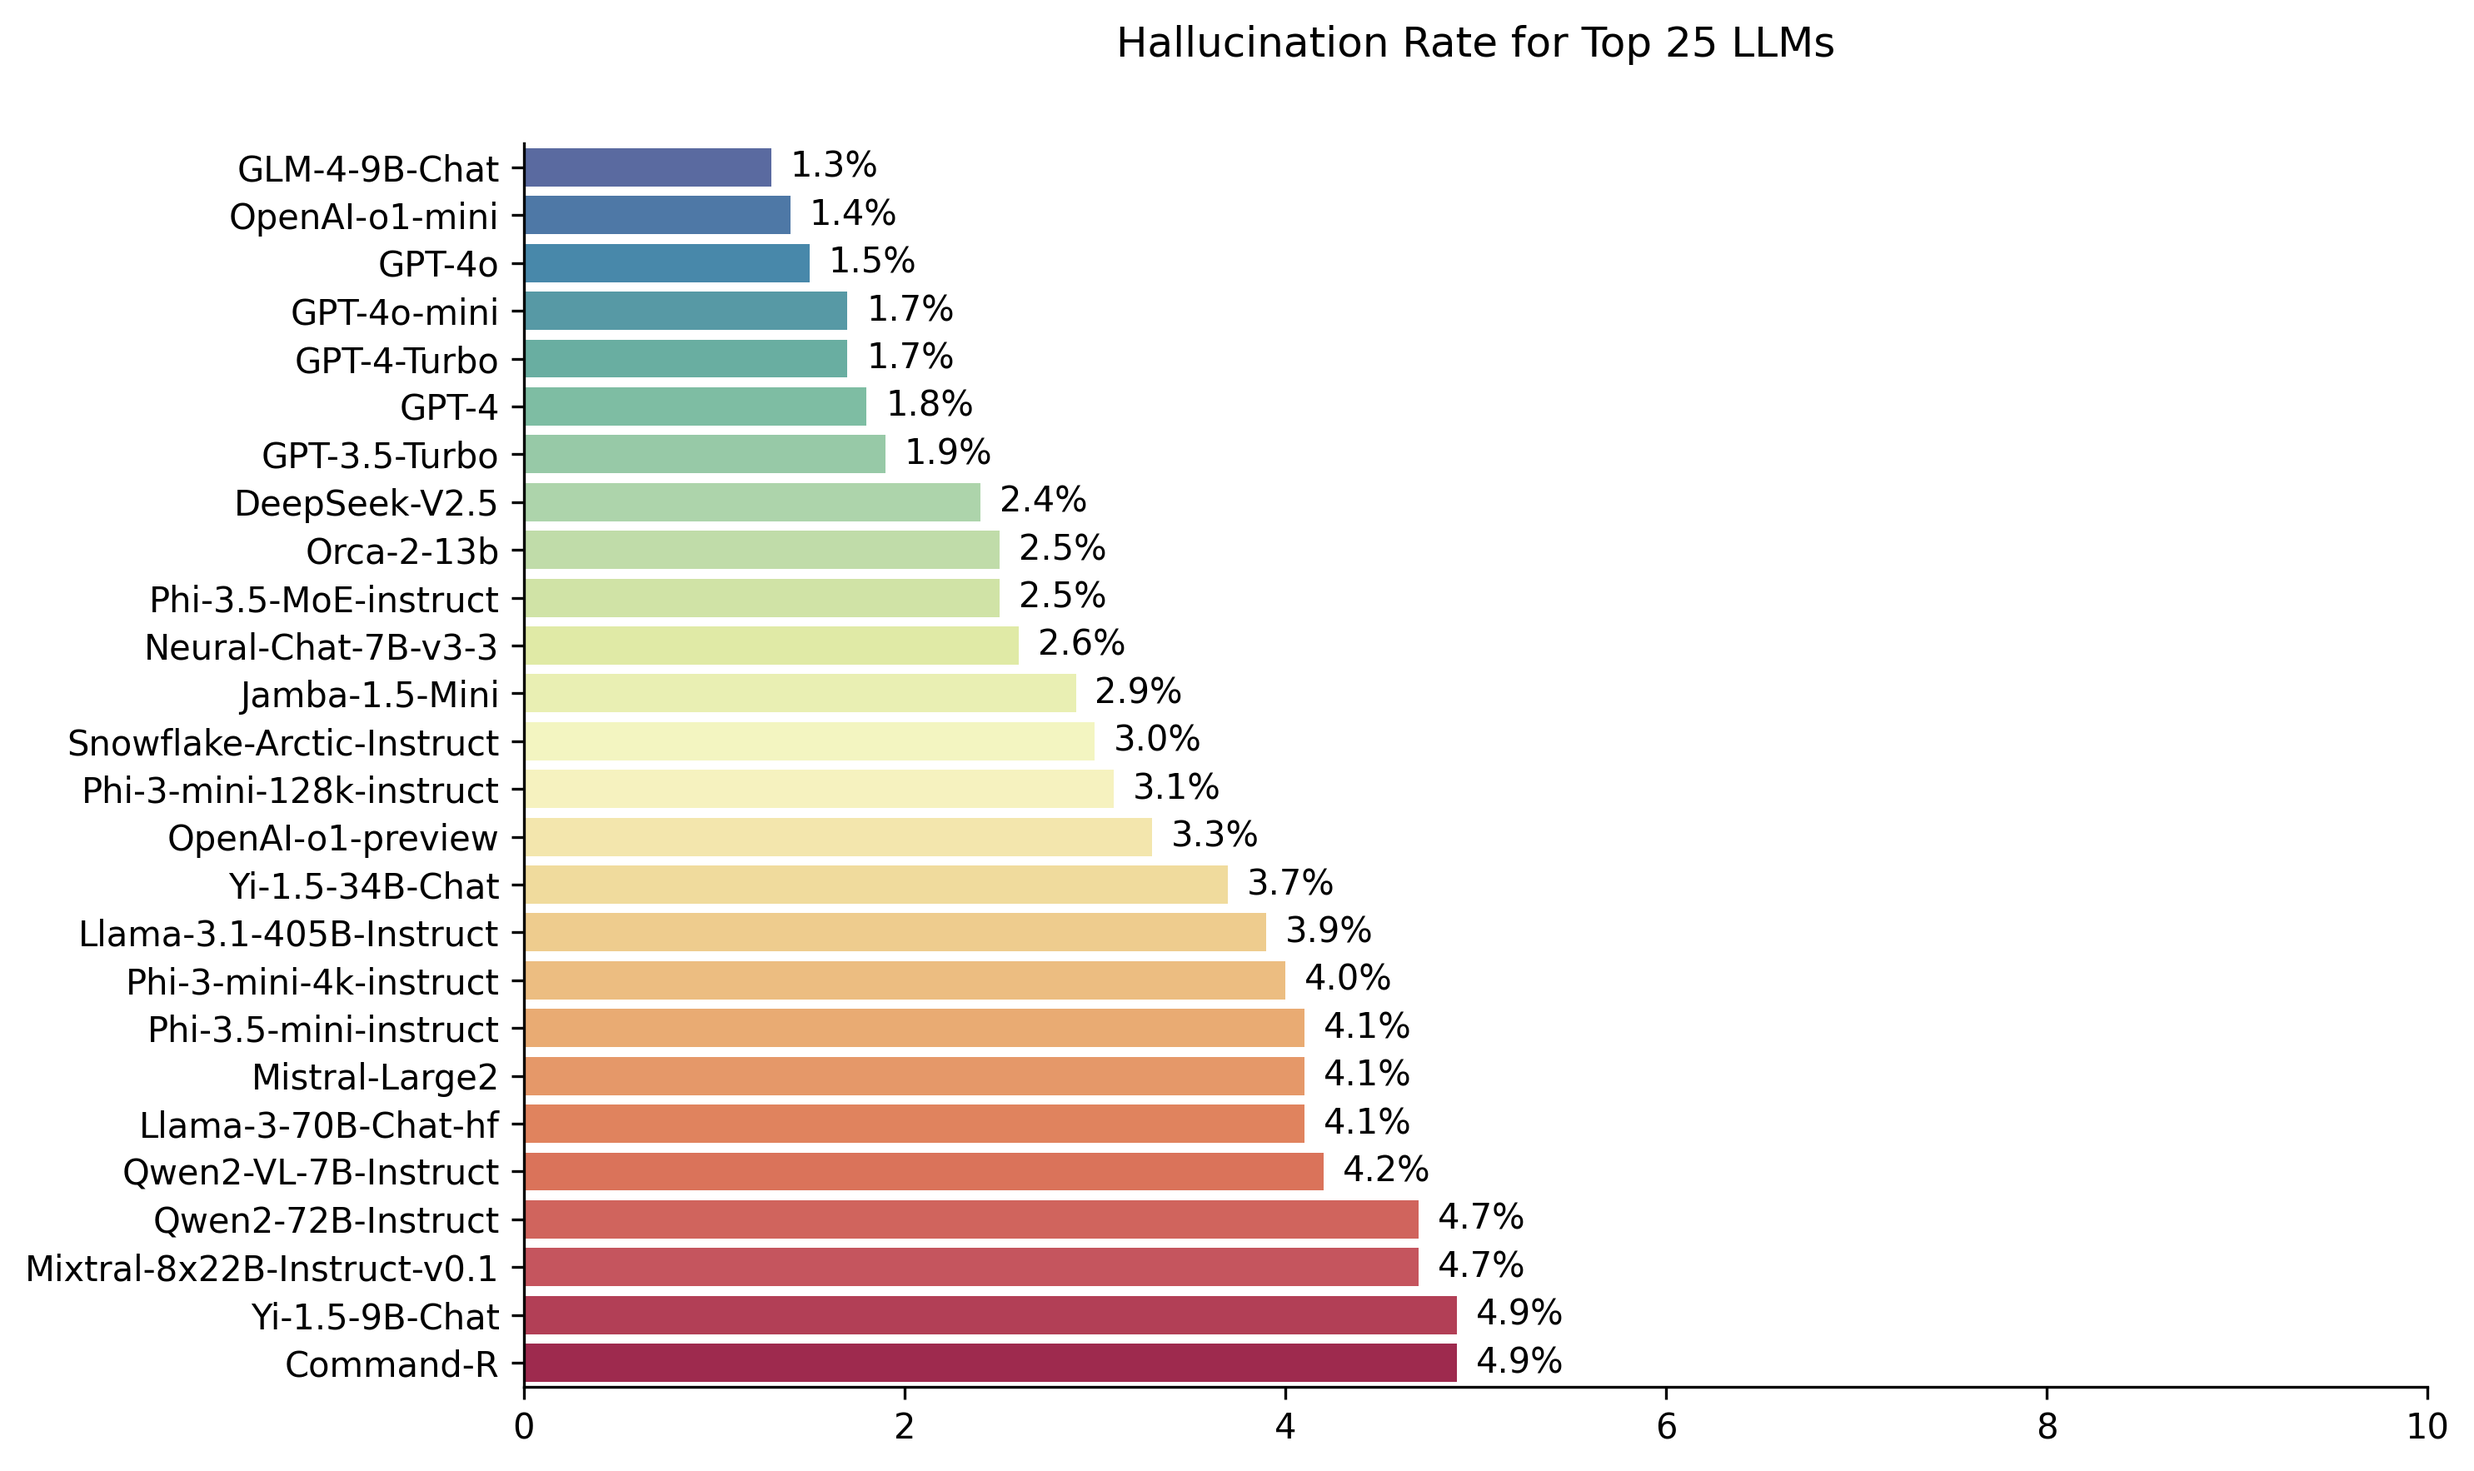
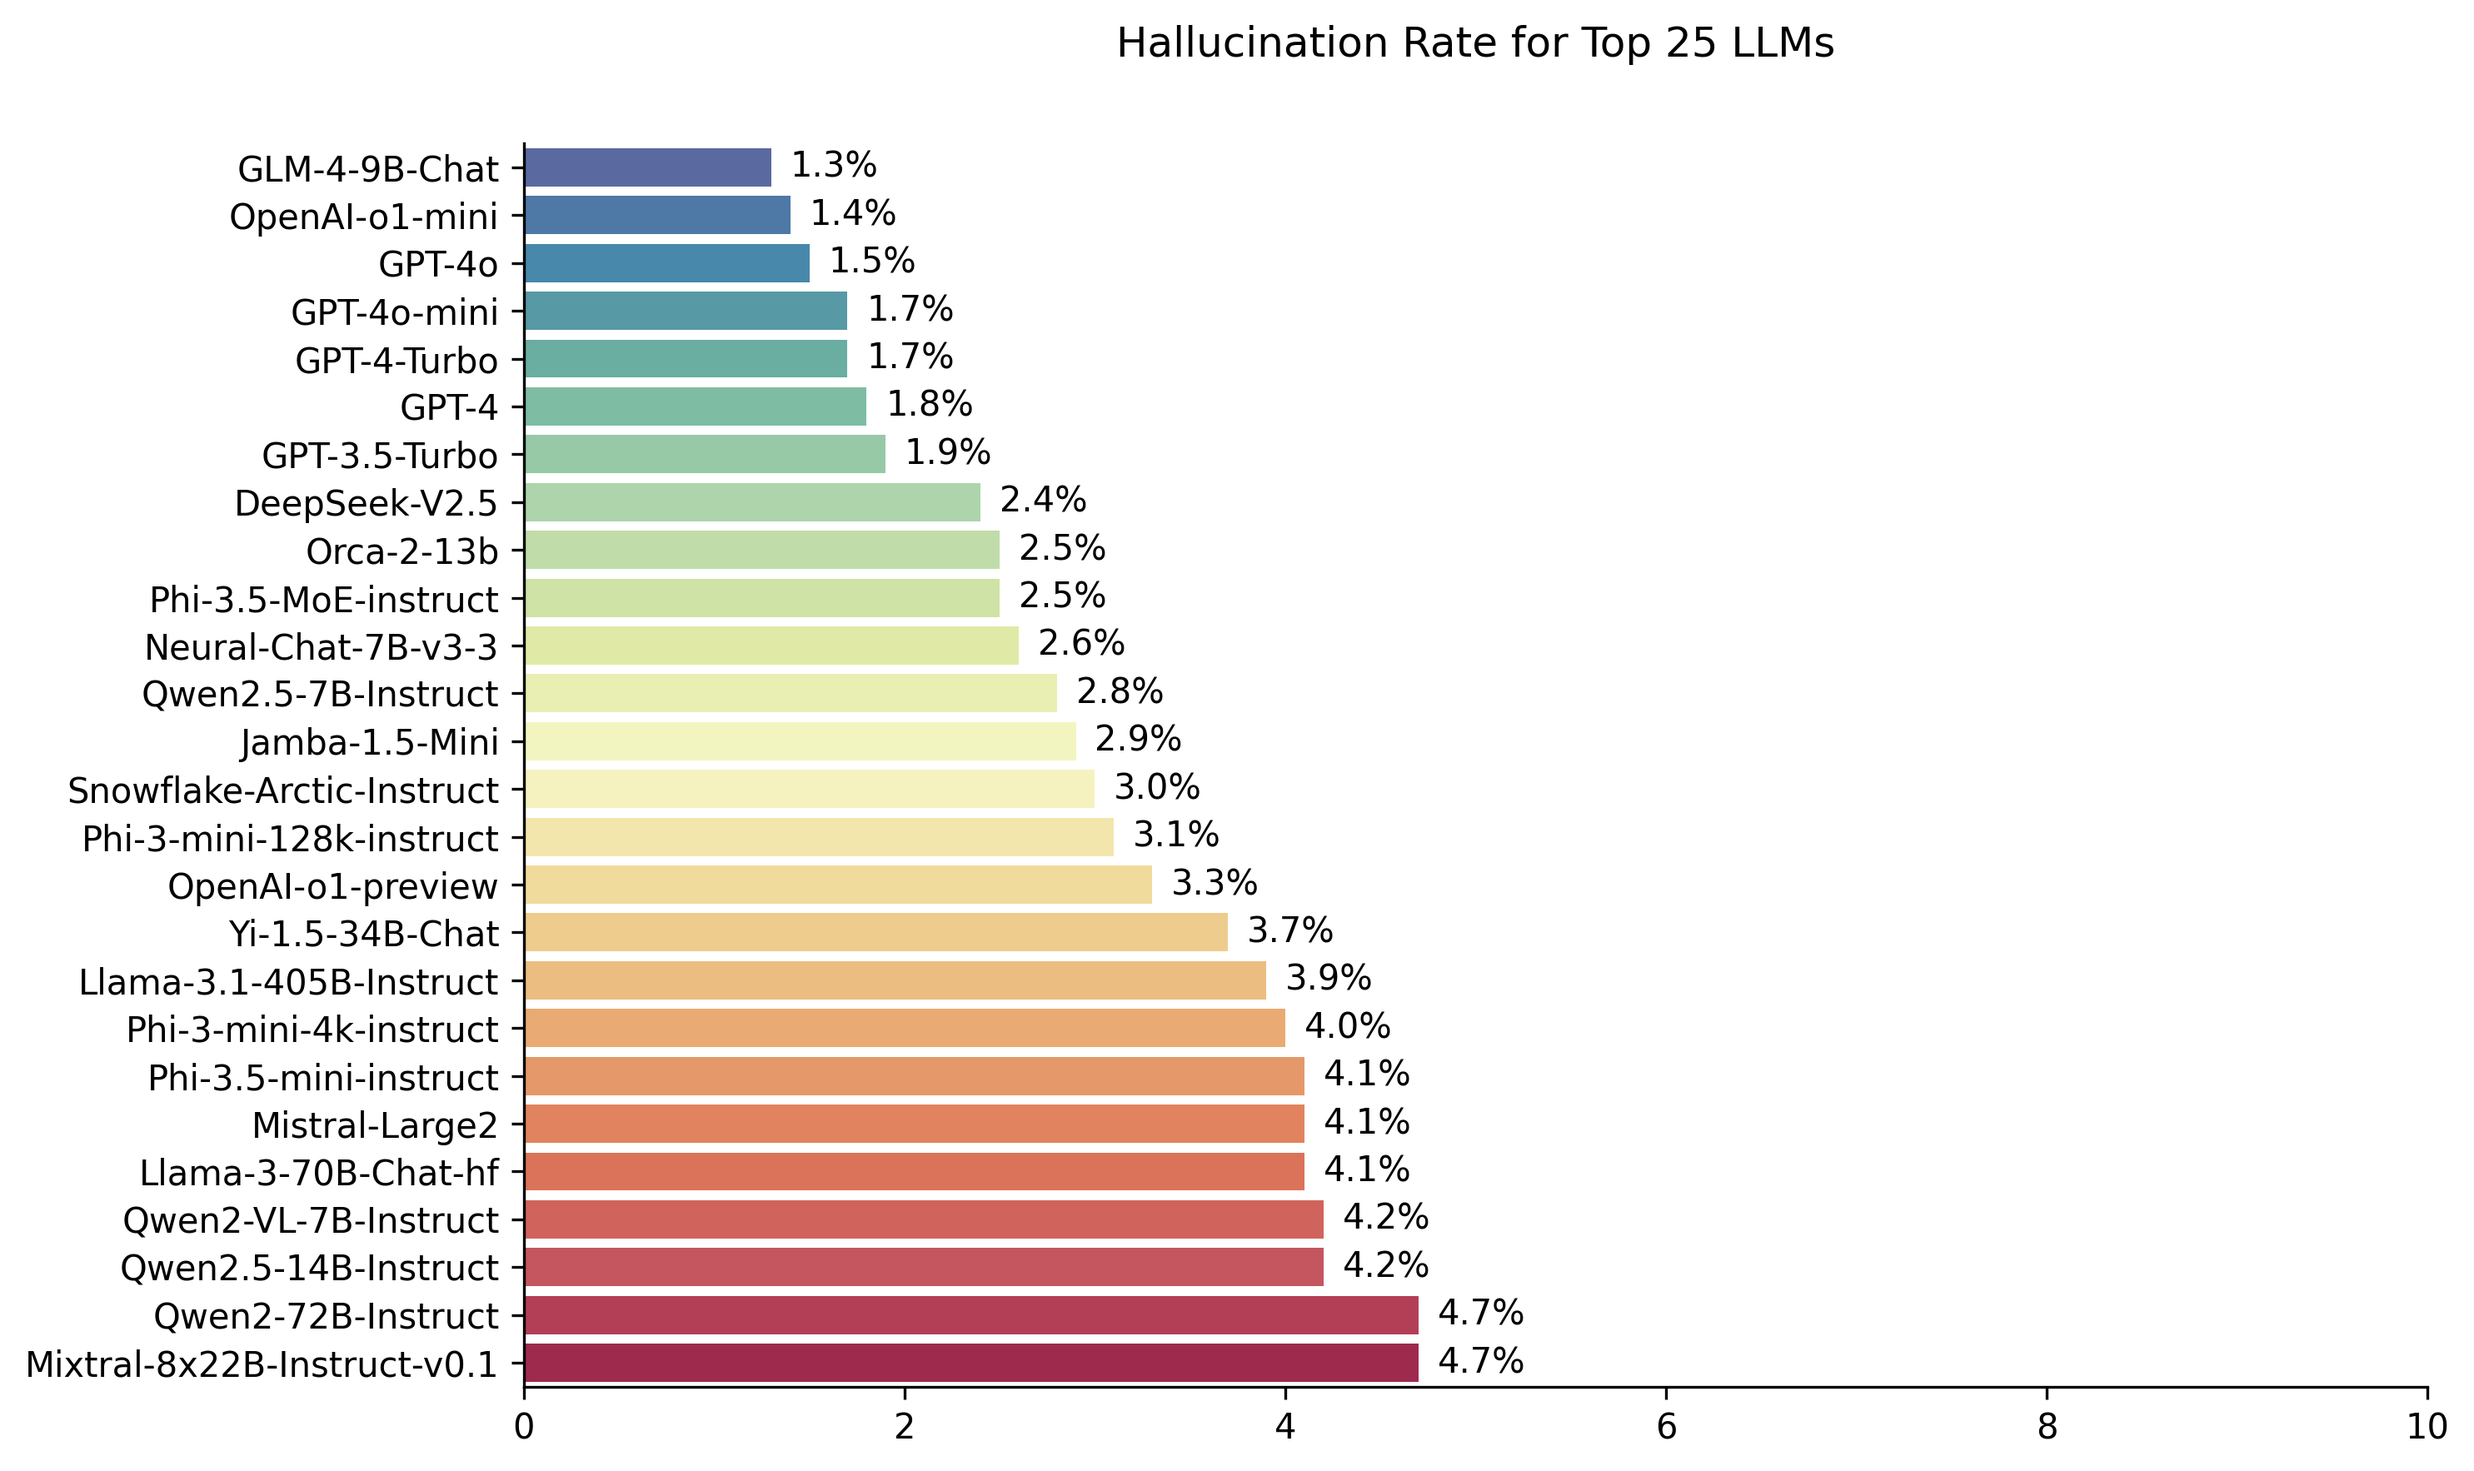
add results for Qwen2.5-Instruct 0.5B, 1.5B, 3B, 7B, 14B

Changed region(s): [[0.0, 0.4672, 0.2168, 0.9343], [0.4027, 0.436, 0.5886, 0.7163], [0.5266, 0.7786, 0.6195, 0.9343]]

diff --git a/README.md b/README.md
@@ -20,7 +20,7 @@ If you are interested in the previous leaderboard, which was based on HHEM-1.0, 
 </table>
 
 
-Last updated on September 16th, 2024
+Last updated on September 20th, 2024
 
 ![Plot: hallucination rates of various LLMs](./img/hallucination_rates_of_various_LLMs.png)
 
@@ -37,6 +37,7 @@ Last updated on September 16th, 2024
 |Microsoft Orca-2-13b|2.5 %|97.5 %|100.0 %|66.2|
 |Microsoft Phi-3.5-MoE-instruct|2.5 %|97.5 %|96.3 %|69.7|
 |Intel Neural-Chat-7B-v3-3|2.6 %|97.4 %|100.0 %|60.7|
+|Qwen2.5-7B-Instruct|2.8 %|97.2 %|100.0 %|71.0|
 |AI21 Jamba-1.5-Mini|2.9 %|97.1 %|95.6 %|74.5|
 |Snowflake-Arctic-Instruct|3.0 %|97.0 %|100.0 %|68.7|
 |Microsoft Phi-3-mini-128k-instruct|3.1 %|96.9 %|100.0 %|60.1|
@@ -48,6 +49,7 @@ Last updated on September 16th, 2024
 |Mistral-Large2|4.1 %|95.9 %|100.0 %|77.4|
 |Llama-3-70B-Chat-hf|4.1 %|95.9 %|99.2 %|68.5|
 |Qwen2-VL-7B-Instruct|4.2 %|95.8 %|100.0 %|73.9|
+|Qwen2.5-14B-Instruct|4.2 %|95.8 %|100.0 %|74.8|
 |Qwen2-72B-Instruct|4.7 %|95.3 %|100.0 %|100.1|
 |Mixtral-8x22B-Instruct-v0.1|4.7 %|95.3 %|99.9 %|92.0|
 |01-AI Yi-1.5-9B-Chat|4.9 %|95.1 %|100.0 %|85.7|
@@ -60,6 +62,7 @@ Last updated on September 16th, 2024
 |Google Gemini-1.5-Flash|6.6 %|93.4 %|99.9 %|63.3|
 |Microsoft phi-2|6.7 %|93.3 %|91.5 %|80.8|
 |Google Gemma-2-2B-it|7.0 %|93.0 %|100.0 %|62.2|
+|Qwen2.5-3B-Instruct|7.0 %|93.0 %|100.0 %|70.4|
 |Llama-3-8B-Chat-hf|7.4 %|92.6 %|99.8 %|79.7|
 |Google Gemini-Pro|7.7 %|92.3 %|98.4 %|89.5|
 |01-AI Yi-1.5-6B-Chat|7.9 %|92.1 %|100.0 %|98.9|
@@ -78,12 +81,14 @@ Last updated on September 16th, 2024
 |Amazon Titan-Express|13.5 %|86.5 %|99.5 %|98.4|
 |Google PaLM-2|14.1 %|85.9 %|99.8 %|86.6|
 |Google Gemma-7B-it|14.8 %|85.2 %|100.0 %|113.0|
+|Qwen2.5-1.5B-Instruct|15.8 %|84.2 %|100.0 %|70.7|
 |Anthropic Claude-3-sonnet|16.3 %|83.7 %|100.0 %|108.5|
 |Google Gemma-1.1-7B-it|17.0 %|83.0 %|100.0 %|64.3|
 |Anthropic Claude-2|17.4 %|82.6 %|99.3 %|87.5|
 |Google Flan-T5-large|18.3 %|81.7 %|99.3 %|20.9|
 |Mixtral-8x7B-Instruct-v0.1|20.1 %|79.9 %|99.9 %|90.7|
 |Apple OpenELM-3B-Instruct|24.8 %|75.2 %|99.3 %|47.2|
+|Qwen2.5-0.5B-Instruct|25.2 %|74.8 %|100.0 %|72.6|
 |Google Gemma-1.1-2B-it|27.8 %|72.2 %|100.0 %|66.8|
 |TII falcon-7B-instruct|29.9 %|70.1 %|90.0 %|75.5|
 
@@ -203,9 +208,10 @@ For an in-depth understanding of each model's version and lifecycle, especially 
 ### Zhipu AI Model
 - **Zhipu-AI/GLM-4-9B-Chat**: The [GLM-4-9B-Chat](https://huggingface.co/THUDM/glm-4-9b-chat) is accessed via Hugging Face's checkpoint.
 
-### Qwen Model
+### Qwen Models
 - **Qwen/Qwen2-72B-Instruct**: Acccessed via Together AI `chat` endpoint with model name `Qwen/Qwen2-72B-Instruct`.
-- **Qwen/Qwen2-VL-Instruct 2B, 7B**: The models [Qwen/Qwen2-VL-2B-Instruct](https://huggingface.co/Qwen/Qwen2-VL-2B-Instruct) and [Qwen/Qwen2-VL-7B-Instruct](https://huggingface.co/Qwen/Qwen2-VL-7B-Instruct) are accessed via Hugging Face's checkpoint.
+- **Qwen/Qwen2-VL-Instruct 2B, 7B**: The models [Qwen/Qwen2-VL-2B-Instruct](https://huggingface.co/Qwen/Qwen2-VL-2B-Instruct) and [Qwen/Qwen2-VL-7B-Instruct](https://huggingface.co/Qwen/Qwen2-VL-7B-Instruct) are accessed via Hugging Face's checkpoints.
+- **Qwen/Qwen2.5-Instruct 0.5B, 1.5B, 3B, 7B, 14B-**: The models [Qwen2.5-0.5B-Instruct](https://huggingface.co/Qwen/Qwen2.5-0.5B-Instruct), [Qwen2.5-1.5B-Instruct](https://huggingface.co/Qwen/Qwen2.5-1.5B-Instruct), [Qwen2.5-3B-Instruct](https://huggingface.co/Qwen/Qwen2.5-3B-Instruct), [Qwen2.5-7B-Instruct](https://huggingface.co/Qwen/Qwen2.5-7B-Instruct), and [Qwen2.5-14B-Instruct](https://huggingface.co/Qwen/Qwen2.5-14B-Instruct) are accessed via Hugging Face's checkpoints.
 
 ### AI21 Model
 - **AI21-Jamba-1.5-Mini**: The [Jamba-1.5-Mini](https://huggingface.co/ai21labs/AI21-Jamba-1.5-Mini) model is accessed via Hugging Face's checkpoint.
